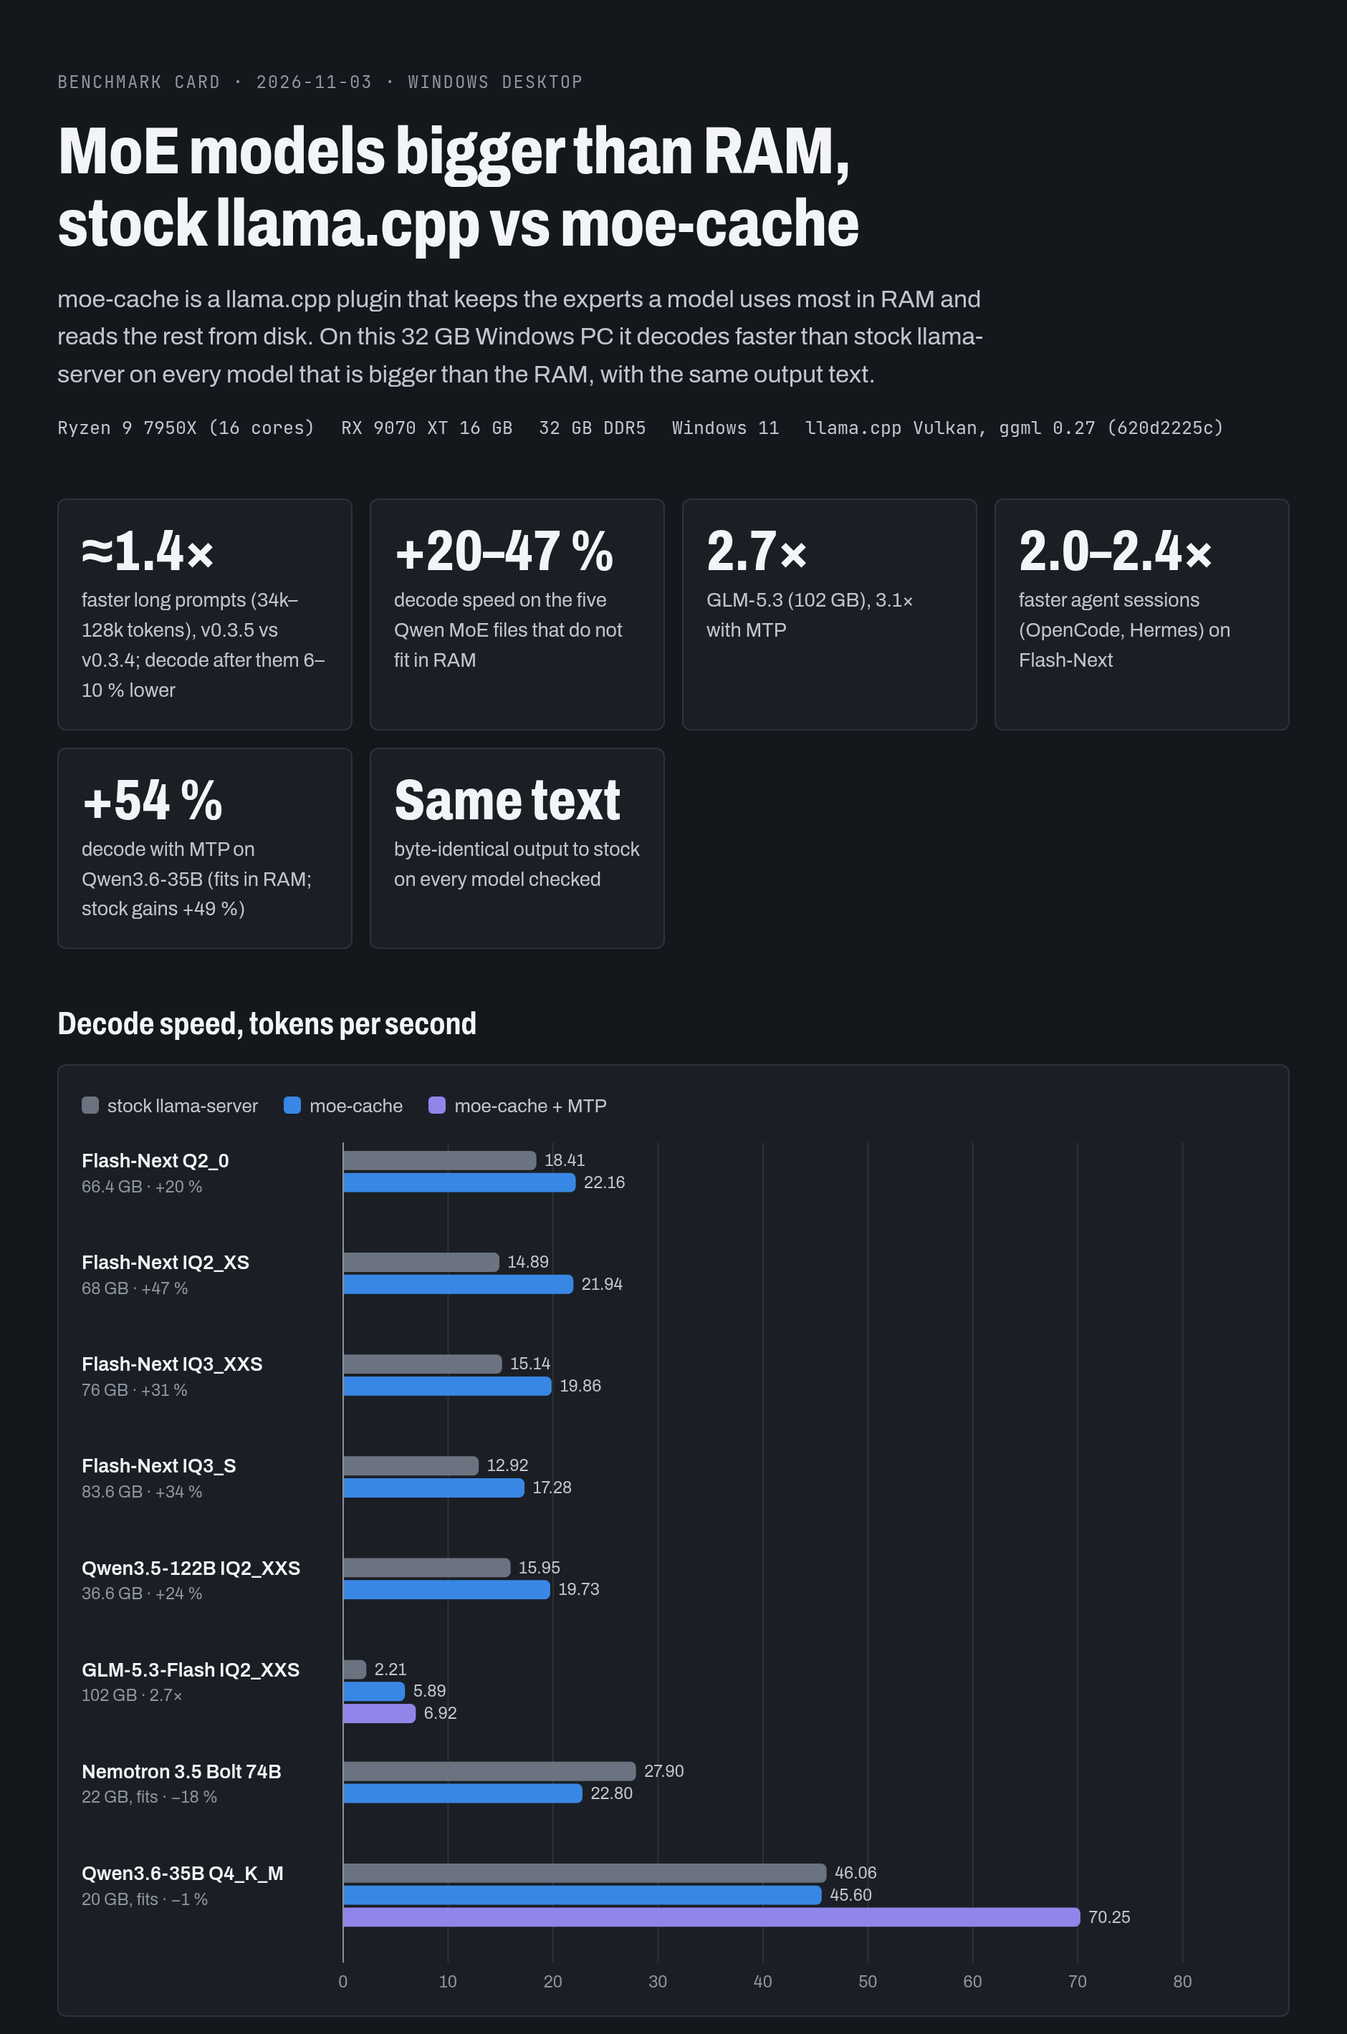
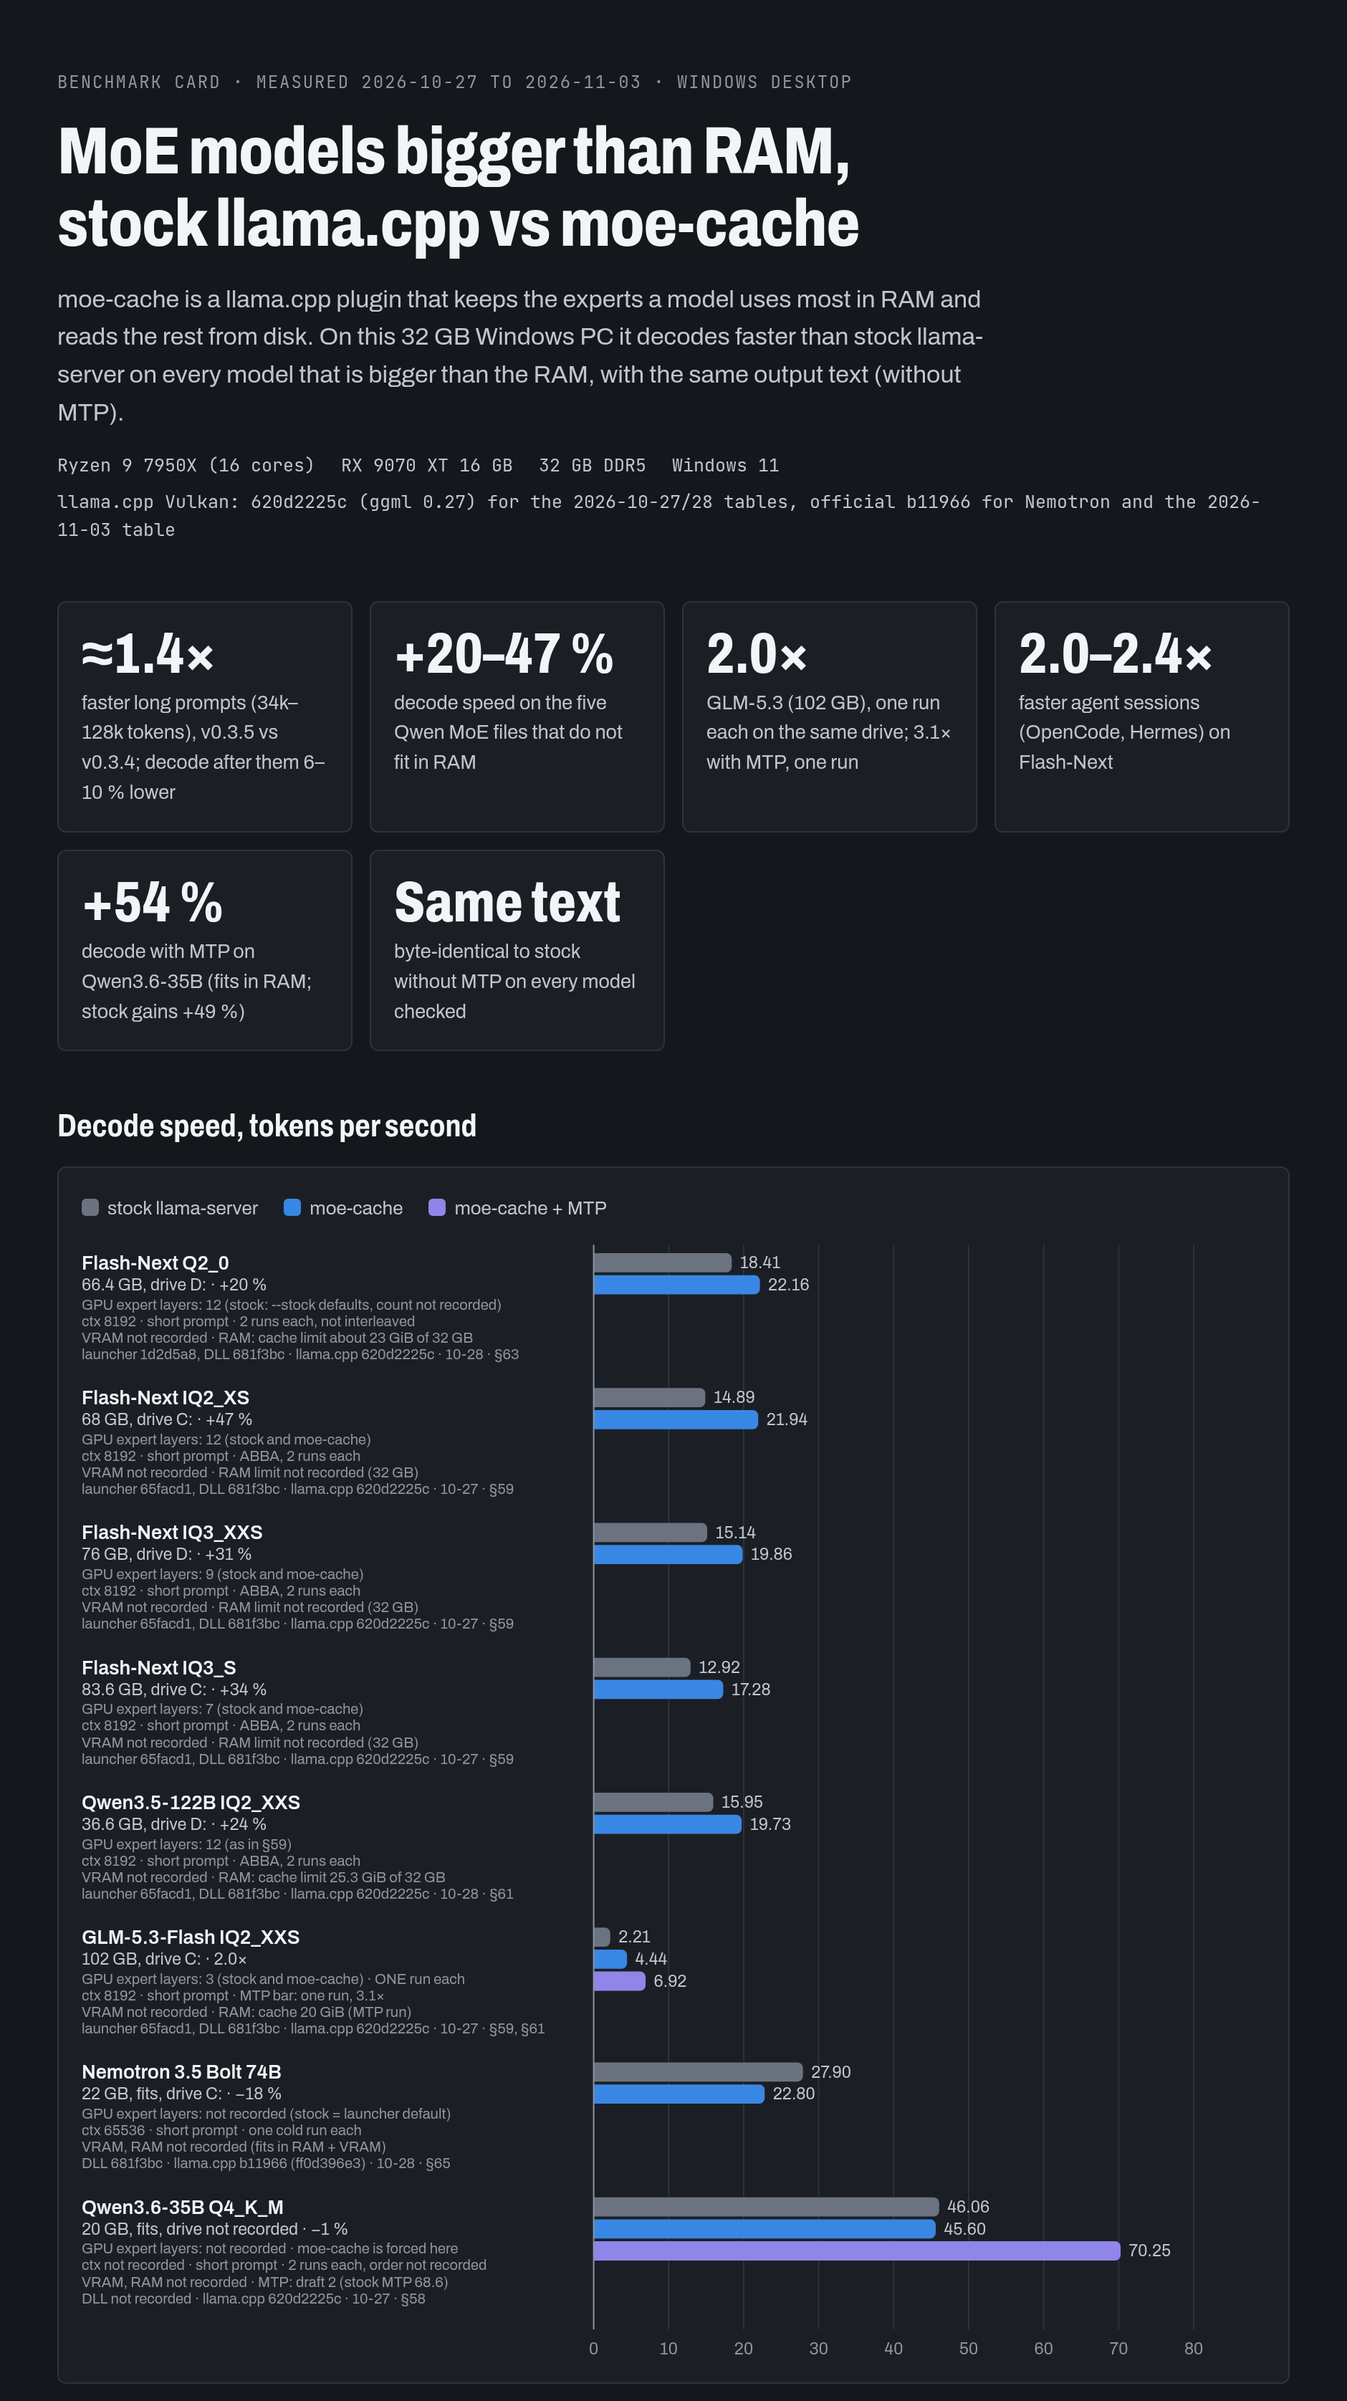
Benchmark card: per-row test details in the chart (size, drive, GPU layers, ctx, runs, builds, date, source); GLM shown as the paired 2.0x; builds and dates stated; images regenerated

diff --git a/docs/benchmark_card.html b/docs/benchmark_card.html
@@ -70,11 +70,11 @@ footer { color: var(--ink-3); font-size: 13px; border-top: 1px solid var(--rule)
 
 <div class="wrap">
   <header>
-    <div class="eyebrow">Benchmark card · 2026-11-03 · Windows desktop</div>
+    <div class="eyebrow">Benchmark card · measured 2026-10-27 to 2026-11-03 · Windows desktop</div>
     <h1>MoE models bigger than RAM, stock llama.cpp vs moe-cache</h1>
-    <p class="lede">moe-cache is a llama.cpp plugin that keeps the experts a model uses most in RAM and reads the rest from disk. On this 32 GB Windows PC it decodes faster than stock llama-server on every model that is bigger than the RAM, with the same output text.</p>
+    <p class="lede">moe-cache is a llama.cpp plugin that keeps the experts a model uses most in RAM and reads the rest from disk. On this 32 GB Windows PC it decodes faster than stock llama-server on every model that is bigger than the RAM, with the same output text (without MTP).</p>
     <div class="machine">
-      <span>Ryzen 9 7950X (16 cores)</span><span>RX 9070 XT 16 GB</span><span>32 GB DDR5</span><span>Windows 11</span><span>llama.cpp Vulkan, ggml 0.27 (620d2225c)</span>
+      <span>Ryzen 9 7950X (16 cores)</span><span>RX 9070 XT 16 GB</span><span>32 GB DDR5</span><span>Windows 11</span><span>llama.cpp Vulkan: 620d2225c (ggml 0.27) for the 2026-10-27/28 tables, official b11966 for Nemotron and the 2026-11-03 table</span>
     </div>
   </header>
 
@@ -82,10 +82,10 @@ footer { color: var(--ink-3); font-size: 13px; border-top: 1px solid var(--rule)
     <div class="tiles">
       <div class="tile"><b>≈1.4×</b><span>faster long prompts (34k–128k tokens), v0.3.5 vs v0.3.4; decode after them 6–10 % lower</span></div>
       <div class="tile"><b>+20–47 %</b><span>decode speed on the five Qwen MoE files that do not fit in RAM</span></div>
-      <div class="tile"><b>2.7×</b><span>GLM-5.3 (102 GB), 3.1× with MTP</span></div>
+      <div class="tile"><b>2.0×</b><span>GLM-5.3 (102 GB), one run each on the same drive; 3.1× with MTP, one run</span></div>
       <div class="tile"><b>2.0–2.4×</b><span>faster agent sessions (OpenCode, Hermes) on Flash-Next</span></div>
       <div class="tile"><b>+54 %</b><span>decode with MTP on Qwen3.6-35B (fits in RAM; stock gains +49 %)</span></div>
-      <div class="tile"><b>Same text</b><span>byte-identical output to stock on every model checked</span></div>
+      <div class="tile"><b>Same text</b><span>byte-identical to stock without MTP on every model checked</span></div>
     </div>
   </section>
 
@@ -109,15 +109,15 @@ footer { color: var(--ink-3); font-size: 13px; border-top: 1px solid var(--rule)
           <tr><td>Flash-Next IQ3_XXS<span class="sub">76 GB, drive D:</span></td><td class="n">9</td><td class="n">15.14</td><td class="n">19.86</td><td class="n up">+31 %</td></tr>
           <tr><td>Flash-Next IQ3_S<span class="sub">83.6 GB, drive C:</span></td><td class="n">7</td><td class="n">12.92</td><td class="n">17.28</td><td class="n up">+34 %</td></tr>
           <tr><td>Qwen3.5-122B UD-IQ2_XXS<span class="sub">36.6 GB, drive D:, re-measured 2026-10-28; replaces 13.88 vs 16.13 (+16 %), which ran during a slowdown of the whole PC</span></td><td class="n">12</td><td class="n">15.95</td><td class="n">19.73</td><td class="n up">+24 %</td></tr>
-          <tr><td>GLM-5.3-Flash UD-IQ2_XXS<span class="sub">102 GB; moe-cache: ABBA on drive D:, launcher defaults (RESULTS 62); stock: one run on drive C:, not yet re-run on D:</span></td><td class="n">3</td><td class="n">2.21</td><td class="n">5.89</td><td class="n up">2.7×</td></tr>
-          <tr><td>GLM-5.3-Flash, moe-cache with <code>--mtp</code><span class="sub">one run; drafts accepted 61–100 %</span></td><td class="n">3</td><td class="n">2.21</td><td class="n">6.92</td><td class="n up">3.1×</td></tr>
+          <tr><td>GLM-5.3-Flash UD-IQ2_XXS<span class="sub">102 GB, drive C:, one run each (RESULTS 59). moe-cache later decoded 5.36 and 5.52 / 5.58 on C: (RESULTS 61) and 5.89 as an ABBA mean on drive D: (RESULTS 62); stock was never re-run, so the ratios against 2.21 would be 2.4× to 2.7× and are not a fair pair</span></td><td class="n">3</td><td class="n">2.21</td><td class="n">4.44</td><td class="n up">2.0×</td></tr>
+          <tr><td>GLM-5.3-Flash, moe-cache with <code>--mtp</code><span class="sub">drive C:, one run (RESULTS 61); drafts accepted 61–100 %</span></td><td class="n">3</td><td class="n">2.21</td><td class="n">6.92</td><td class="n up">3.1×</td></tr>
           <tr><td>Nemotron 3.5 Bolt 74B-A9B<span class="sub">22.0 GB, <b>fits in RAM</b>: the launcher runs stock for it; moe-cache forced here to compare (one run each)</span></td><td class="n">–</td><td class="n">27.9</td><td class="n">22.8</td><td class="n">−18 %</td></tr>
           <tr><td>Qwen3.6-35B-A3B Q4_K_M<span class="sub">20 GB, <b>fits in RAM</b>: stock is the right choice; moe-cache forced (two runs each, RESULTS 58)</span></td><td class="n">–</td><td class="n">46.06</td><td class="n">45.60</td><td class="n">−1 %</td></tr>
           <tr><td>Qwen3.6-35B, moe-cache with MTP<span class="sub">stock with MTP: 68.6 (+49 %); about 78 % of drafts accepted</span></td><td class="n">–</td><td class="n">46.06</td><td class="n">70.25</td><td class="n up">+53 %</td></tr>
         </tbody>
       </table>
     </div>
-    <p class="note">Each pair is two cold runs in the order stock, moe-cache, moe-cache, stock (ABBA), and the table shows the means. GLM: moe-cache is the mean of an ABBA set on drive D: (RESULTS 62), stock and MTP are single cold runs on drive C: (a stock re-run on D: is queued). Every model here is bigger than the free RAM once the GPU and Windows have taken their share. Since experimental 29addb9 the executor works in 128-row chunks: Flash-Next Q2_0 decode +3.9 % in every ABBA pair (23.4 → 24.3 tok/s), text identical (RESULTS 64 addendum); the rows here were measured before. Q2_0: stock decodes it much faster than IQ2_XS (18.4 vs 14.9), so the plugin's decode gain there is +20 % (code request +13 %); its prompt gain is 2.33× (3k-token prompt 120.8 vs 281 tok/s), which is what agent sessions wait on (RESULTS 63).</p>
+    <p class="note">Each pair is two cold runs in the order stock, moe-cache, moe-cache, stock (ABBA), and the table shows the means. GLM: one run per side on drive C: (see the row). Every model here is bigger than the free RAM once the GPU and Windows have taken their share. <b>Dates and builds:</b> every row of this table was measured on 2026-10-27 or 28 (RESULTS 58–65) with llama.cpp 620d2225c (Nemotron: b11966) and the plugin builds named in the chart; the chart is older than the current code. Later changes (128-row executor chunks, +3.9 % on Flash-Next Q2_0; async reads, +12 %, RESULTS 67) are not in these numbers, and stock was not re-run after them. The 2026-11-03 numbers below are a different test. Q2_0: stock decodes it much faster than IQ2_XS (18.4 vs 14.9), so the plugin's decode gain there is +20 % (code request +13 %); its prompt gain is 2.33× (3k-token prompt 120.8 vs 281 tok/s), which is what agent sessions wait on (RESULTS 63).</p>
   </section>
 
   <section>
@@ -271,7 +271,7 @@ footer { color: var(--ink-3); font-size: 13px; border-top: 1px solid var(--rule)
   <section>
     <h2>Where it does not help</h2>
     <ul>
-      <li><b>Models that fit in RAM.</b> Qwen3.6-35B (20 GB) decodes at the same speed with or without the plugin (43.6 vs 43.1 tok/s without MTP). Agent sessions are only 5–9 % shorter there, from faster follow-up prompts.</li>
+      <li><b>Models that fit in RAM.</b> Qwen3.6-35B (20 GB) decodes at the same speed with or without the plugin (46.1 vs 45.6 tok/s without MTP, RESULTS 58). Agent sessions are only 5–9 % shorter there, from faster follow-up prompts.</li>
       <li><b>Decode at long agent contexts.</b> On Flash-Next the 2.0–2.4× session gain comes from prompt processing. Decode at 65k-context agent settings is equal (21.5 vs 21.2 tok/s).</li>
       <li><b>CPU kernels.</b> The numbers here were measured with llama.cpp's own CPU kernels (ggml-cpu-zen4) on both sides. The plugin's exact Q2_0 executor kernel, on Windows since 2026-10-28, did not change the PC's decode (it is limited by RAM bandwidth). The gain comes from which experts are in RAM and how they are read, not from faster math.</li>
       <li><b>Cold start.</b> From a cold file cache the plugin reports ready 5.6 s later than stock (28.5 vs 22.9 s) while it loads its hot experts; the first answer wins it back. A warm restart answers 6 s sooner than stock.</li>
@@ -326,22 +326,112 @@ footer { color: var(--ink-3); font-size: 13px; border-top: 1px solid var(--rule)
 <script>
 (function () {
   var data = [
-    { m: "Flash-Next Q2_0", s: "66.4 GB", stock: 18.41, mc: 22.16 },
-    { m: "Flash-Next IQ2_XS", s: "68 GB", stock: 14.89, mc: 21.94 },
-    { m: "Flash-Next IQ3_XXS", s: "76 GB", stock: 15.14, mc: 19.86 },
-    { m: "Flash-Next IQ3_S", s: "83.6 GB", stock: 12.92, mc: 17.28 },
-    { m: "Qwen3.5-122B IQ2_XXS", s: "36.6 GB", stock: 15.95, mc: 19.73 },
-    { m: "GLM-5.3-Flash IQ2_XXS", s: "102 GB", stock: 2.21, mc: 5.89, mtp: 6.92 },
-    { m: "Nemotron 3.5 Bolt 74B", s: "22 GB, fits", stock: 27.9, mc: 22.8 },
-    { m: "Qwen3.6-35B Q4_K_M", s: "20 GB, fits", stock: 46.06, mc: 45.60, mtp: 70.25 }
+    {
+      "m": "Flash-Next Q2_0",
+      "s": "66.4 GB, drive D:",
+      "stock": 18.41,
+      "mc": 22.16,
+      "d": [
+        "GPU expert layers: 12 (stock: --stock defaults, count not recorded)",
+        "ctx 8192 · short prompt · 2 runs each, not interleaved",
+        "VRAM not recorded · RAM: cache limit about 23 GiB of 32 GB",
+        "launcher 1d2d5a8, DLL 681f3bc · llama.cpp 620d2225c · 10-28 · §63"
+      ]
+    },
+    {
+      "m": "Flash-Next IQ2_XS",
+      "s": "68 GB, drive C:",
+      "stock": 14.89,
+      "mc": 21.94,
+      "d": [
+        "GPU expert layers: 12 (stock and moe-cache)",
+        "ctx 8192 · short prompt · ABBA, 2 runs each",
+        "VRAM not recorded · RAM limit not recorded (32 GB)",
+        "launcher 65facd1, DLL 681f3bc · llama.cpp 620d2225c · 10-27 · §59"
+      ]
+    },
+    {
+      "m": "Flash-Next IQ3_XXS",
+      "s": "76 GB, drive D:",
+      "stock": 15.14,
+      "mc": 19.86,
+      "d": [
+        "GPU expert layers: 9 (stock and moe-cache)",
+        "ctx 8192 · short prompt · ABBA, 2 runs each",
+        "VRAM not recorded · RAM limit not recorded (32 GB)",
+        "launcher 65facd1, DLL 681f3bc · llama.cpp 620d2225c · 10-27 · §59"
+      ]
+    },
+    {
+      "m": "Flash-Next IQ3_S",
+      "s": "83.6 GB, drive C:",
+      "stock": 12.92,
+      "mc": 17.28,
+      "d": [
+        "GPU expert layers: 7 (stock and moe-cache)",
+        "ctx 8192 · short prompt · ABBA, 2 runs each",
+        "VRAM not recorded · RAM limit not recorded (32 GB)",
+        "launcher 65facd1, DLL 681f3bc · llama.cpp 620d2225c · 10-27 · §59"
+      ]
+    },
+    {
+      "m": "Qwen3.5-122B IQ2_XXS",
+      "s": "36.6 GB, drive D:",
+      "stock": 15.95,
+      "mc": 19.73,
+      "d": [
+        "GPU expert layers: 12 (as in §59)",
+        "ctx 8192 · short prompt · ABBA, 2 runs each",
+        "VRAM not recorded · RAM: cache limit 25.3 GiB of 32 GB",
+        "launcher 65facd1, DLL 681f3bc · llama.cpp 620d2225c · 10-28 · §61"
+      ]
+    },
+    {
+      "m": "GLM-5.3-Flash IQ2_XXS",
+      "s": "102 GB, drive C:",
+      "stock": 2.21,
+      "mc": 4.44,
+      "mtp": 6.92,
+      "d": [
+        "GPU expert layers: 3 (stock and moe-cache) · ONE run each",
+        "ctx 8192 · short prompt · MTP bar: one run, 3.1×",
+        "VRAM not recorded · RAM: cache 20 GiB (MTP run)",
+        "launcher 65facd1, DLL 681f3bc · llama.cpp 620d2225c · 10-27 · §59, §61"
+      ]
+    },
+    {
+      "m": "Nemotron 3.5 Bolt 74B",
+      "s": "22 GB, fits, drive C:",
+      "stock": 27.9,
+      "mc": 22.8,
+      "d": [
+        "GPU expert layers: not recorded (stock = launcher default)",
+        "ctx 65536 · short prompt · one cold run each",
+        "VRAM, RAM not recorded (fits in RAM + VRAM)",
+        "DLL 681f3bc · llama.cpp b11966 (ff0d396e3) · 10-28 · §65"
+      ]
+    },
+    {
+      "m": "Qwen3.6-35B Q4_K_M",
+      "s": "20 GB, fits, drive not recorded",
+      "stock": 46.06,
+      "mc": 45.6,
+      "mtp": 70.25,
+      "d": [
+        "GPU expert layers: not recorded · moe-cache is forced here",
+        "ctx not recorded · short prompt · 2 runs each, order not recorded",
+        "VRAM, RAM not recorded · MTP: draft 2 (stock MTP 68.6)",
+        "DLL not recorded · llama.cpp 620d2225c · 10-27 · §58"
+      ]
+    }
   ];
   var NS = "http://www.w3.org/2000/svg", svg = document.getElementById("bars"), tip = document.getElementById("tip"), box = document.getElementById("chart");
   var top_v = Math.max.apply(null, data.map(function (d) { return Math.max(d.stock, d.mc, d.mtp || 0); }));
   var step = top_v > 40 ? 10 : 5, max = Math.ceil(top_v * 1.05 / step) * step;      // the axis grows with the fastest bar
-  var W = 860, left = 190, right = 60, top = 8, bh = 14, gap = 2;
+  var W = 860, left = 372, right = 52, top = 8, bh = 14, gap = 2;
   var x = function (v) { return left + (W - left - right) * v / max; };
   function el(n, a, txt) { var e = document.createElementNS(NS, n); for (var k in a) e.setAttribute(k, a[k]); if (txt != null) e.textContent = txt; svg.appendChild(e); return e; }
-  var rowH = 74, y0 = top;
+  var rowH = 98, y0 = top;
   var H = top + data.length * rowH + 30;
   svg.setAttribute("viewBox", "0 0 " + W + " " + H);
   var ticks = []; for (var t0 = 0; t0 <= max; t0 += step) ticks.push(t0);
@@ -367,7 +457,8 @@ footer { color: var(--ink-3); font-size: 13px; border-top: 1px solid var(--rule)
   data.forEach(function (d, i) {
     var y = y0 + i * rowH + 6;
     el("text", { x: 0, y: y + 12, "font-size": 14, "font-weight": 600, fill: "var(--ink)" }, d.m);
-    el("text", { x: 0, y: y + 30, "font-size": 12, fill: "var(--ink-3)" }, d.s + " · " + (d.mc / d.stock >= 1.95 ? (d.mc / d.stock).toFixed(1) + "×" : (d.mc >= d.stock ? "+" : "−") + Math.abs(Math.round((d.mc / d.stock - 1) * 100)) + " %"));
+    el("text", { x: 0, y: y + 27, "font-size": 12, fill: "var(--ink-2)" }, d.s + "  ·  " + (d.mc / d.stock >= 1.95 ? (d.mc / d.stock).toFixed(1) + "×" : (d.mc >= d.stock ? "+" : "−") + Math.abs(Math.round((d.mc / d.stock - 1) * 100)) + " %"));
+    d.d.forEach(function (ln, k) { el("text", { x: 0, y: y + 41 + k * 12, "font-size": 10.5, fill: "var(--ink-3)" }, ln); });
     bar(y, d.stock, "var(--stock)", d.m + ", stock");
     bar(y + bh + gap, d.mc, "var(--plugin)", d.m + ", moe-cache");
     if (d.mtp) bar(y + 2 * (bh + gap), d.mtp, "var(--mtp)", d.m + ", moe-cache + MTP");

diff --git a/README.md b/README.md
@@ -12,7 +12,7 @@ A plugin for an unmodified <code>llama-server</code>. No fork, no patch.</p>
 </p>
 
 <p align="center"><a href="docs/benchmark_card.html"><picture><source media="(prefers-color-scheme: dark)" srcset="docs/benchmark_card-dark.png"><img src="docs/benchmark_card.png" width="860" alt="Benchmark card: decode tokens per second, stock llama.cpp vs moe-cache, on a Windows PC with 32 GB RAM and a 16 GB graphics card"></picture></a></p>
-<p align="center"><sub>Windows desktop, 32 GB RAM + 16 GB graphics card, v0.3.x. Full <a href="docs/benchmark_card.html">benchmark card</a> (long context, other models, agents); every number in <a href="docs/RESULTS.md">docs/RESULTS.md</a>. Older laptop results: <a href="docs/RESULTS.md#laptop-results-older-versions">docs/RESULTS.md</a>.</sub></p>
+<p align="center"><sub>Windows desktop, 32 GB RAM + 16 GB graphics card; speeds measured 2026-10-27/28 with builds of that week (each row lists its test details; not recorded values say so). Full <a href="docs/benchmark_card.html">benchmark card</a> (long context, other models, agents); every number in <a href="docs/RESULTS.md">docs/RESULTS.md</a>. Older laptop results: <a href="docs/RESULTS.md#laptop-results-older-versions">docs/RESULTS.md</a>.</sub></p>
 
 ## What it is
 
